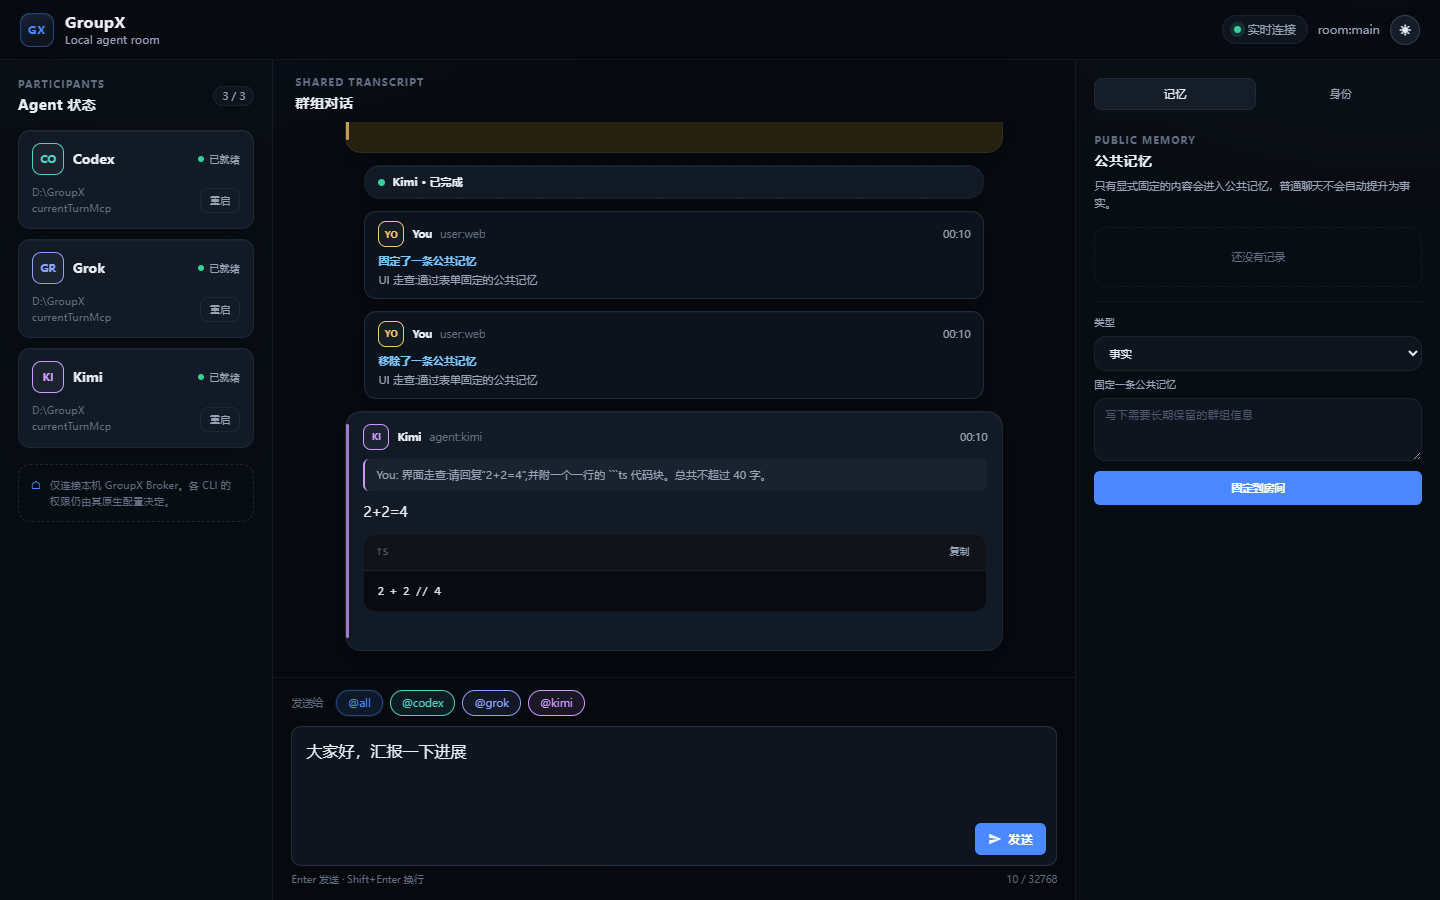
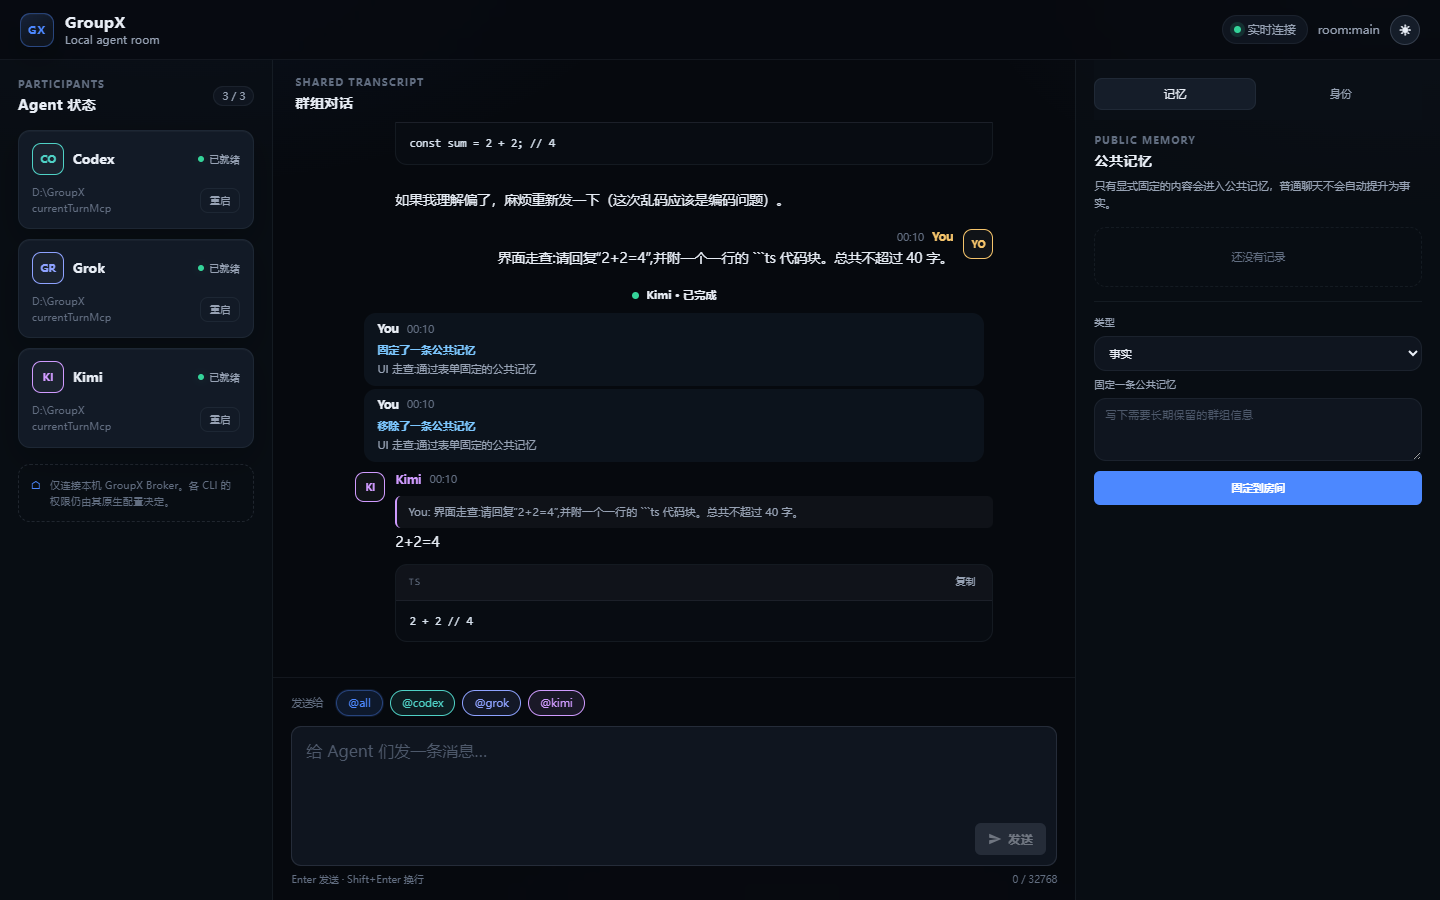
Restyle timeline as Feishu-style flat message flow
- Flat full-width message rows; own messages right-aligned, avatar right
- Hover reveals floating reply/copy toolbar; row hover highlight
- Sender name tinted per agent tone, time beside name, id in tooltip
- Turn/activity/generic events flattened to borderless centered rows
- Update README screenshots

diff --git a/web/styles.css b/web/styles.css
@@ -583,10 +583,10 @@ input:disabled {
 }
 
 .actor-avatar {
-  width: 26px;
-  height: 26px;
-  border-radius: 8px;
-  font-size: 0.58rem;
+  width: 30px;
+  height: 30px;
+  border-radius: 9px;
+  font-size: 0.6rem;
 }
 
 .actor-codex {
@@ -755,7 +755,7 @@ input:disabled {
 .timeline {
   display: flex;
   flex-direction: column;
-  gap: 12px;
+  gap: 3px;
   padding: 8px max(24px, 5vw) 26px;
   overflow-x: hidden;
   overflow-y: auto;
@@ -864,39 +864,34 @@ input:disabled {
   --tone: var(--tone-system);
 }
 
-.event-card,
-.turn-card,
-.generic-card,
-.activity-card {
+.event-card {
   position: relative;
-  max-width: 780px;
-  padding: 12px 15px 12px 17px;
-  border: 1px solid var(--line);
-  border-radius: var(--radius-lg);
-  background: var(--card-bg);
-  box-shadow: var(--shadow-card);
+  display: flex;
+  gap: 10px;
+  padding: 7px 10px;
+  border: 0;
+  border-radius: 10px;
+  background: transparent;
+  box-shadow: none;
 }
 
-.event-card::before {
-  position: absolute;
-  top: 12px;
-  bottom: 12px;
-  left: 0;
-  width: 3px;
-  border-radius: 3px;
-  background: var(--tone, var(--line-strong));
-  opacity: 0.75;
-  content: "";
+.event-card:hover {
+  background: var(--quote-bg);
 }
 
 .event-card.actor-user-card {
-  margin-left: auto;
-  border-color: var(--line);
-  background: var(--user-card-bg);
+  flex-direction: row-reverse;
 }
 
-.event-card.is-streaming {
-  border-color: var(--accent-border);
+.event-body {
+  display: flex;
+  flex: 1 1 auto;
+  flex-direction: column;
+  min-width: 0;
+}
+
+.actor-user-card .event-body {
+  align-items: flex-end;
 }
 
 .event-card.is-streaming .event-content::after {
@@ -923,39 +918,39 @@ input:disabled {
 
 @keyframes highlight-pulse {
   0% {
-    border-color: var(--accent);
-    box-shadow: 0 0 0 3px var(--accent-wash);
+    background: var(--accent-wash);
   }
   100% {
-    border-color: var(--line);
-    box-shadow: var(--shadow-card);
+    background: transparent;
   }
 }
 
 .event-meta {
   gap: 8px;
   min-width: 0;
-  color: var(--muted);
+  color: var(--subtle);
   font-size: 0.66rem;
+}
+
+.actor-user-card .event-meta {
+  flex-direction: row-reverse;
 }
 
 .actor-name {
   overflow: hidden;
-  color: var(--text);
+  color: var(--tone, var(--text));
+  font-size: 0.72rem;
   font-weight: 650;
   text-overflow: ellipsis;
   white-space: nowrap;
 }
 
 .actor-id {
-  overflow: hidden;
-  color: var(--subtle);
-  text-overflow: ellipsis;
-  white-space: nowrap;
+  display: none;
 }
 
 .event-time {
-  margin-left: auto;
+  color: var(--subtle);
   white-space: nowrap;
   font-variant-numeric: tabular-nums;
 }
@@ -971,17 +966,38 @@ input:disabled {
 }
 
 .event-content {
-  margin: 10px 0 0;
+  margin: 3px 0 0;
   color: var(--content-text);
   font-size: 0.85rem;
   line-height: 1.68;
 }
 
+.actor-user-card .event-content {
+  text-align: right;
+}
+
+.actor-user-card .reply-reference {
+  text-align: left;
+}
+
 .event-actions {
-  gap: 14px;
-  margin-top: 8px;
+  position: absolute;
+  top: 2px;
+  right: 8px;
+  gap: 2px;
+  padding: 2px;
+  margin: 0;
+  border: 1px solid var(--line);
+  border-radius: 8px;
+  background: var(--bg-2);
+  box-shadow: var(--shadow-card);
   opacity: 0;
   transition: opacity 140ms ease;
+}
+
+.actor-user-card .event-actions {
+  right: auto;
+  left: 8px;
 }
 
 .event-card:hover .event-actions,
@@ -994,6 +1010,16 @@ input:disabled {
   color: var(--subtle);
   font-size: 0.66rem;
   transition: color 120ms ease;
+}
+
+.event-actions .text-button {
+  padding: 3px 8px;
+  border-radius: 6px;
+}
+
+.event-actions .text-button:hover {
+  background: var(--quote-bg-hover);
+  color: var(--text);
 }
 
 .text-button.danger-text:hover,
@@ -1102,7 +1128,12 @@ input:disabled {
 .turn-card,
 .generic-card,
 .activity-card {
-  padding: 9px 13px;
+  position: relative;
+  padding: 8px 13px;
+  border: 0;
+  border-radius: var(--radius-md);
+  background: transparent;
+  box-shadow: none;
   color: var(--muted);
   font-size: 0.7rem;
 }
@@ -1110,9 +1141,12 @@ input:disabled {
 .turn-card {
   max-width: 620px;
   margin: 0 auto;
-  border-style: dashed;
-  border-radius: var(--radius-lg);
-  background: var(--card-bg);
+  text-align: center;
+}
+
+.turn-card .turn-card-header {
+  justify-content: center;
+  gap: 10px;
 }
 
 .turn-state {
@@ -1164,8 +1198,6 @@ input:disabled {
 .activity-card {
   max-width: 620px;
   margin: 0 auto;
-  border-color: var(--activity-border);
-  border-radius: var(--radius-md);
   background: var(--activity-bg);
 }
 
@@ -1185,7 +1217,7 @@ input:disabled {
 
 .generic-card {
   max-width: 680px;
-  border-color: var(--line);
+  background: var(--quote-bg);
 }
 
 .generic-type {

diff --git a/web/app.ts b/web/app.ts
@@ -668,14 +668,18 @@ async function requestJson<T>(path: string, options: RequestInit = {}): Promise<
   return decoded as T;
 }
 
+function createActorAvatar(actor: ActorRef): HTMLSpanElement {
+  const avatar = document.createElement("span");
+  avatar.className = `actor-avatar ${actorToneClass(actor.actorId)}`;
+  avatar.textContent = actorInitial(actor);
+  avatar.setAttribute("aria-hidden", "true");
+  return avatar;
+}
+
 function createActorMeta(envelope: GroupXEnvelope): HTMLDivElement {
   const wrapper = document.createElement("div");
   wrapper.className = "event-meta";
-
-  const avatar = document.createElement("span");
-  avatar.className = `actor-avatar ${actorToneClass(envelope.actor.actorId)}`;
-  avatar.textContent = actorInitial(envelope.actor);
-  avatar.setAttribute("aria-hidden", "true");
+  wrapper.title = envelope.actor.actorId;
 
   const name = document.createElement("span");
   name.className = "actor-name";
@@ -691,7 +695,7 @@ function createActorMeta(envelope: GroupXEnvelope): HTMLDivElement {
   time.textContent = formatTime(envelope.occurredAt);
   time.title = formatFullTime(envelope.occurredAt);
 
-  wrapper.append(avatar, name, actorId, time);
+  wrapper.append(name, actorId, time);
   return wrapper;
 }
 
@@ -885,7 +889,10 @@ function renderMessage(envelope: GroupXEnvelope): void {
     article.classList.add("actor-user-card");
   }
   article.dataset.eventId = envelope.eventId;
-  article.append(createActorMeta(envelope));
+
+  const body = document.createElement("div");
+  body.className = "event-body";
+  body.append(createActorMeta(envelope));
 
   if (envelope.replyToEventId) {
     const sourceId = envelope.replyToEventId;
@@ -910,13 +917,13 @@ function renderMessage(envelope: GroupXEnvelope): void {
         scrollToSource();
       }
     });
-    article.append(reply);
+    body.append(reply);
   }
 
   const content = document.createElement("p");
   content.className = "event-content";
   renderRichContent(content, messageContent(envelope.body));
-  article.append(content);
+  body.append(content);
 
   const actions = document.createElement("div");
   actions.className = "event-actions";
@@ -935,7 +942,8 @@ function renderMessage(envelope: GroupXEnvelope): void {
     });
   });
   actions.append(replyButton, copyButton);
-  article.append(actions);
+  body.append(actions);
+  article.append(createActorAvatar(envelope.actor), body);
 
   state.messages.set(envelope.eventId, envelope);
   eventNodes.set(envelope.eventId, article);
@@ -953,18 +961,22 @@ function updateStreamingNode(bucket: DeltaBucket, text: string): void {
     article = document.createElement("article");
     article.className = `event-card is-streaming ${cardToneClass(bucket.envelope.actor.actorId)}`;
     article.dataset.streamKey = bucket.key;
-    article.append(createActorMeta(bucket.envelope));
+
+    const body = document.createElement("div");
+    body.className = "event-body";
+    body.append(createActorMeta(bucket.envelope));
 
     if (bucket.mode === "reasoning") {
       const label = document.createElement("div");
       label.className = "reply-reference";
       label.textContent = "推理流";
-      article.append(label);
+      body.append(label);
     }
 
     const content = document.createElement("p");
     content.className = "event-content";
-    article.append(content);
+    body.append(content);
+    article.append(createActorAvatar(bucket.envelope.actor), body);
     item.append(article);
     streamNodes.set(bucket.key, article);
     maybeInsertDateDivider(bucket.envelope.occurredAt);
